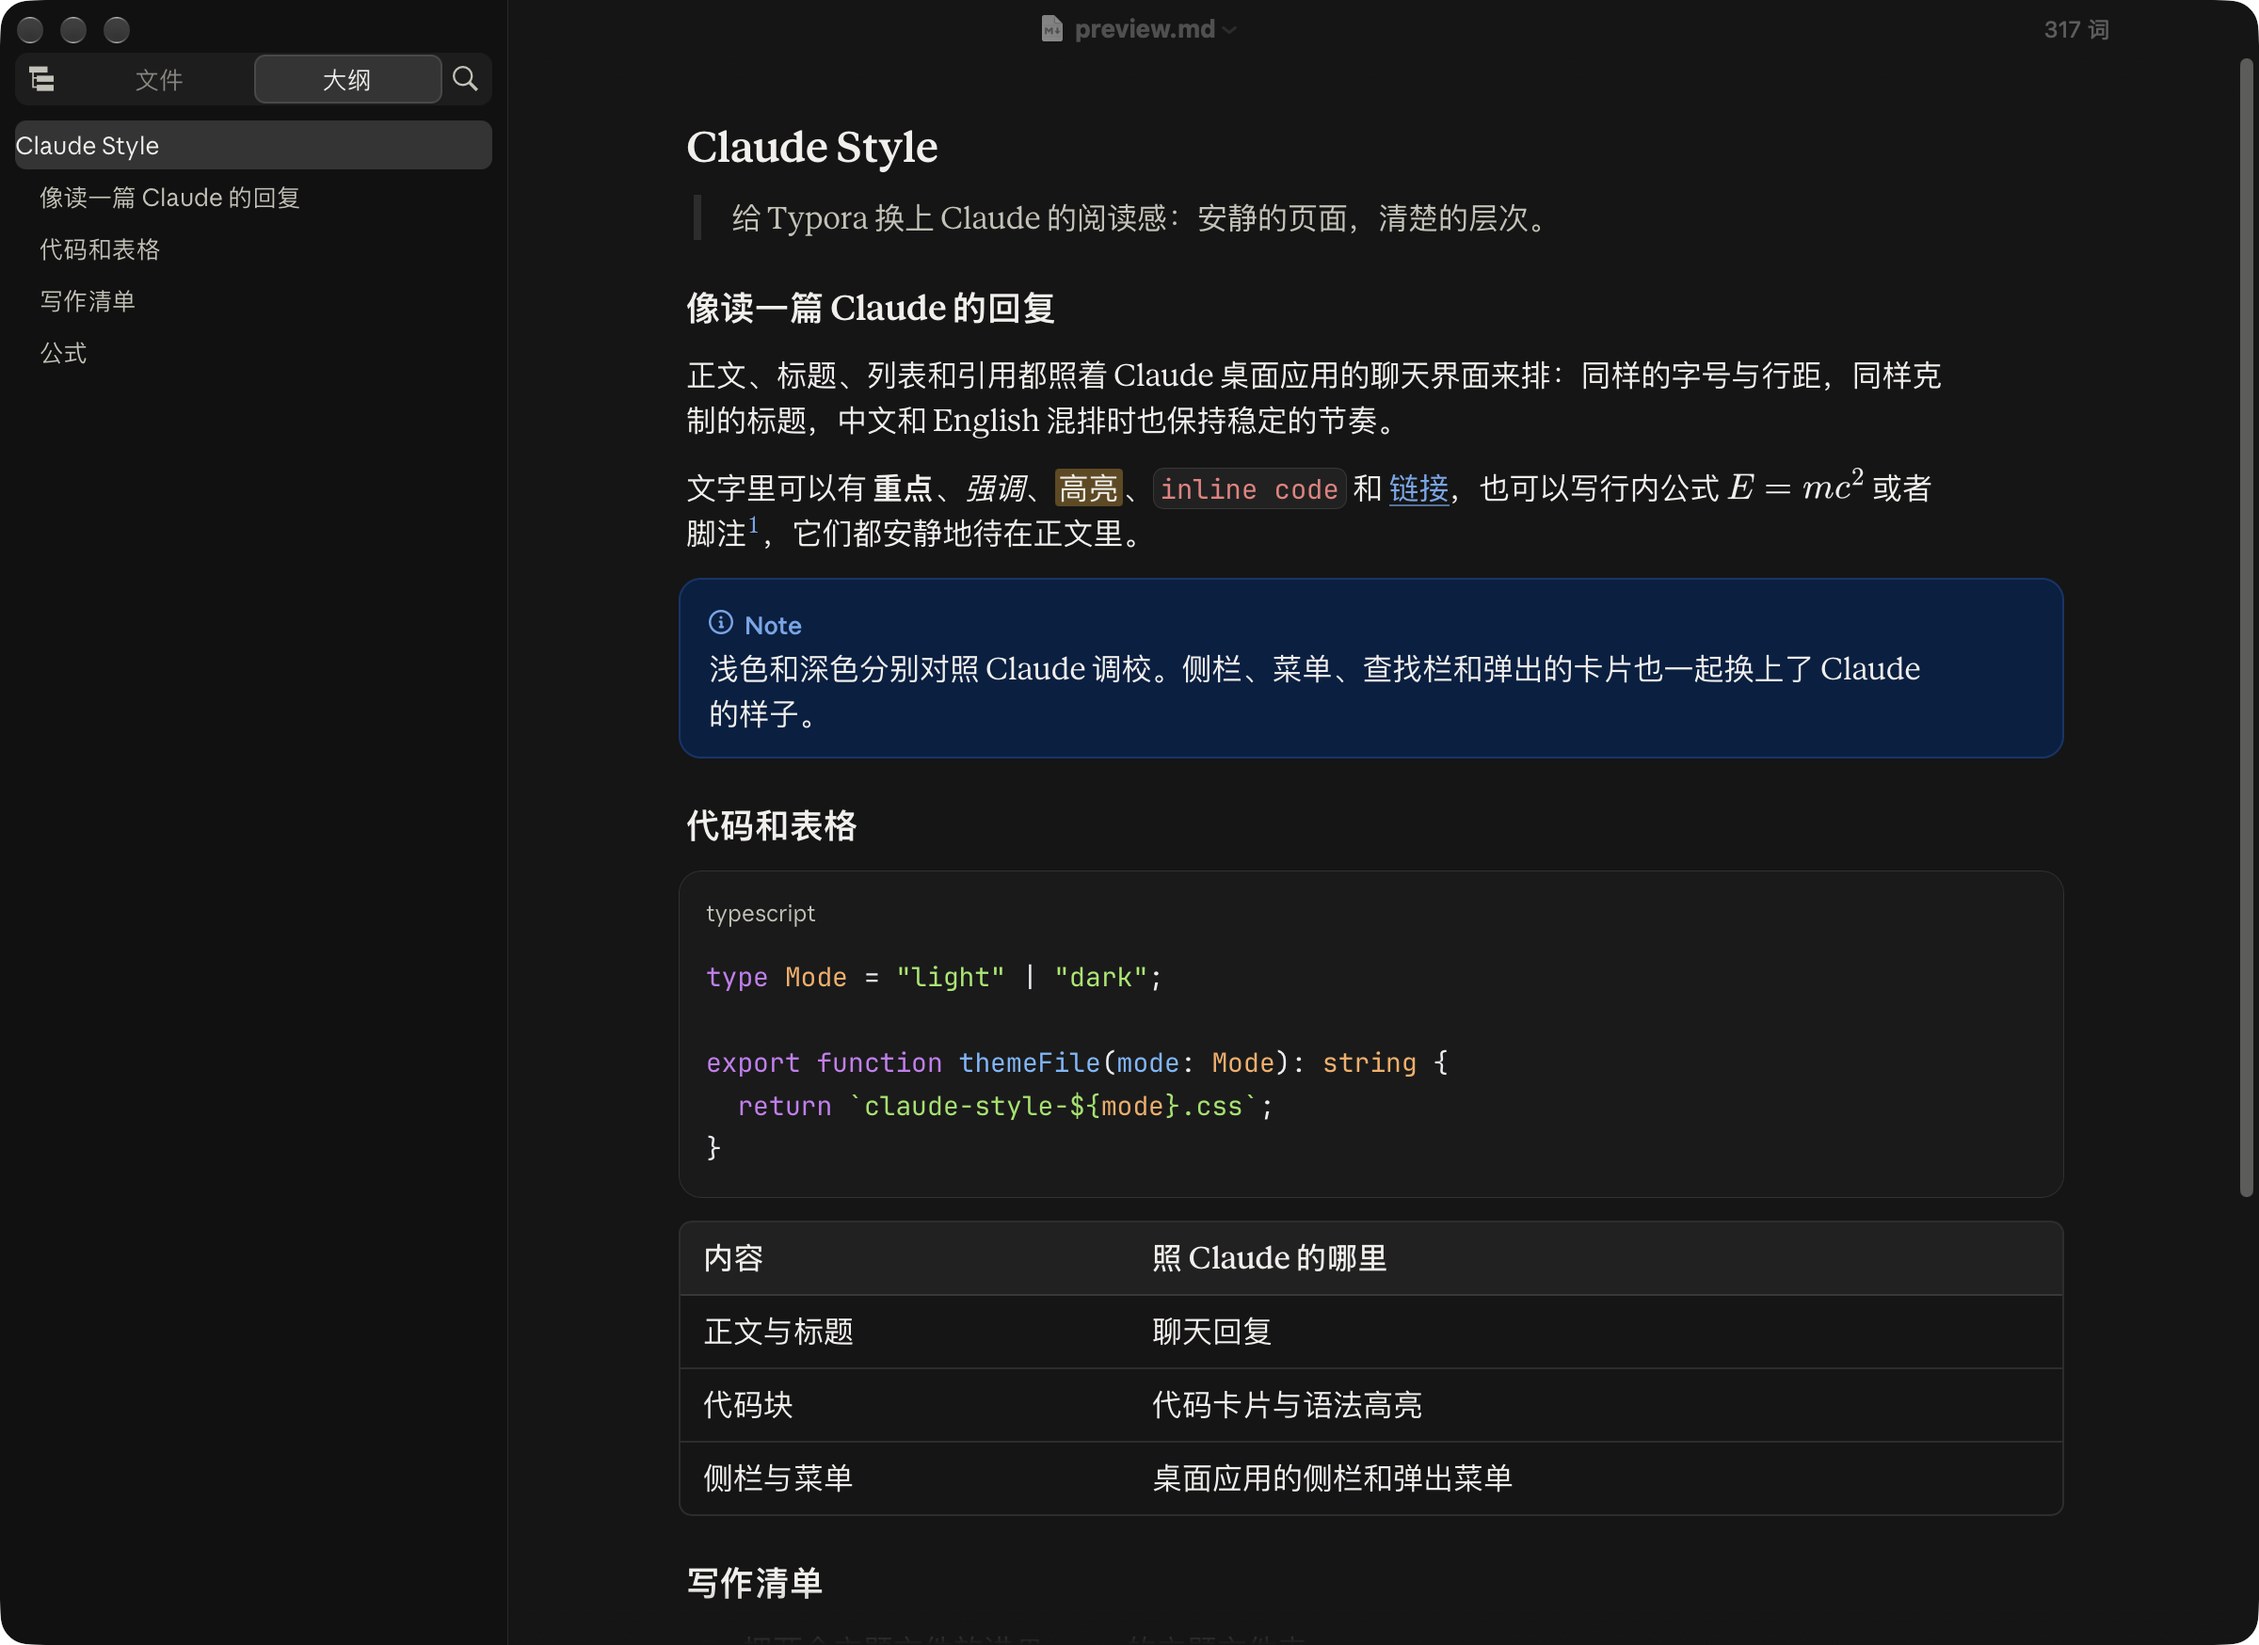
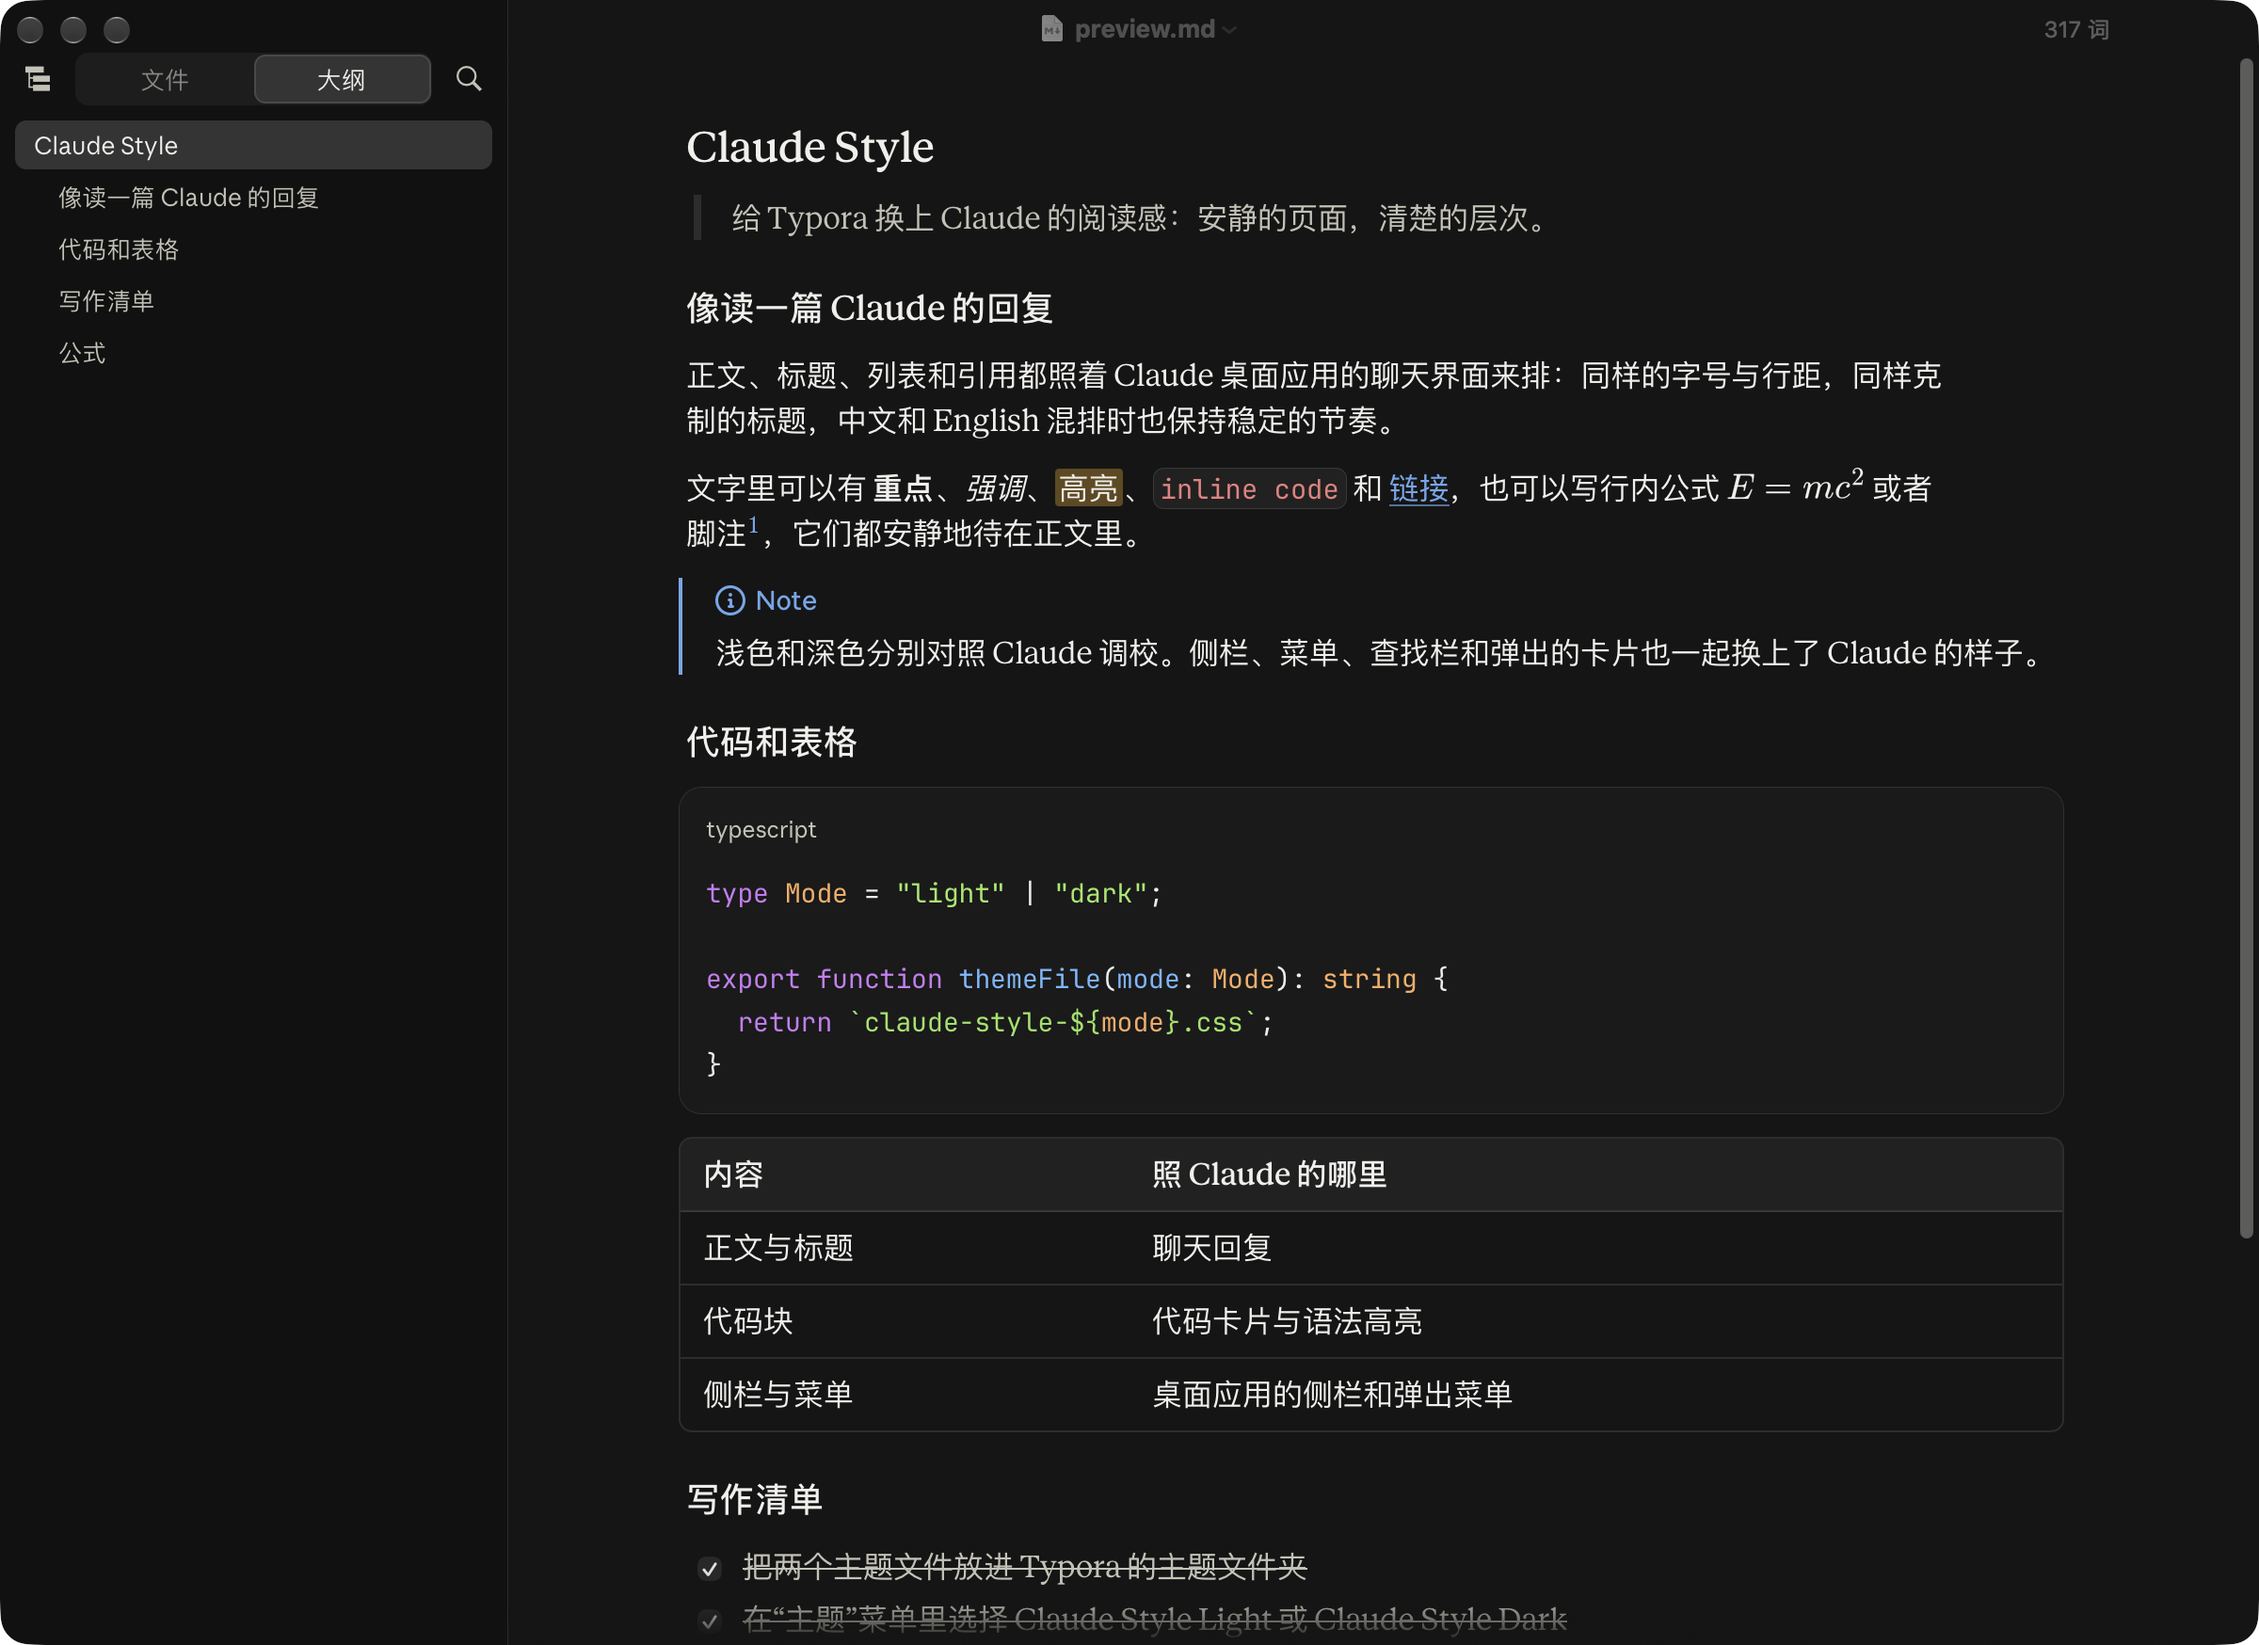
docs: bring Claude Style's post and previews up to date
The theme has moved on since the entry was proposed: new previews with
the current alerts and outline, two previews of the new file cards, a
thumbnail cut from the new light preview, and the post's summary of what
the theme covers.

diff --git a/_posts/theme/2026-10-22-claude-style.md b/_posts/theme/2026-10-22-claude-style.md
@@ -15,7 +15,7 @@ typora-copy-images-to: ../../media/theme/claude-style
 
 # Claude Style
 
-A light and a dark theme that make your documents read like a reply in the Claude desktop app. The text, code, tables and alerts follow Claude's chat view, and Typora's own interface (sidebar, menus, find bar, dialogs) takes on Claude's look as well.
+A light and a dark theme that make your documents read like a reply in the Claude desktop app. The text, code and tables follow Claude's chat view, alerts follow the way Claude shows a document, a file linked on its own becomes the card Claude shows for a file it shares, and Typora's own interface (sidebar, menus, floating toolbar, find bar, dialogs) takes on Claude's look as well.
 
 ## Light
 
@@ -25,12 +25,21 @@ A light and a dark theme that make your documents read like a reply in the Claud
 
 ![](/media/theme/claude-style/preview-dark.png)
 
+## File cards
+
+Files linked in paragraphs of their own, in the light and the dark theme:
+
+![](/media/theme/claude-style/file-cards-light.png)
+
+![](/media/theme/claude-style/file-cards-dark.png)
+
 ## What it covers
 
-- **Reading:** Claude's text size, line spacing and heading scale; quiet links, quotes, lists and tables.
+- **Reading:** Claude's text size, line spacing and heading scale; quiet links, quotes, lists and tables; keycaps, task lists and footnotes as in Claude.
 - **Code:** Claude's code card with a language label and Claude's syntax colours; inline code as Claude's small code chip.
-- **Math, alerts and diagrams:** formulas at the same size as in Claude, GitHub alerts as Claude's notices, Mermaid diagrams in Claude's colours.
-- **Typora itself:** sidebar with file tree, outline and search; menus, find and replace, quick open, dialogs, notifications, the floating toolbar and file preview.
+- **Math, alerts and diagrams:** formulas at the same size as in Claude, GitHub alerts the way Claude shows them in a document, Mermaid diagrams in Claude's colours.
+- **File links:** a file linked in a paragraph of its own shows as the card Claude draws for a file it shares, coloured by the kind of file, with its icon, name, kind and extension; web links stay links, and exports keep the plain link.
+- **Typora itself:** sidebar with file tree, outline and search; the floating toolbar in the look of Claude's review bar, with the heading levels in a submenu of Paragraph; find and replace, quick open with matches in bold as in Claude's search, dialogs, notifications, tooltips, the floating outline window and file preview.
 - **Export:** HTML and PDF use the same styles as the editor.
 
 The theme prefers Anthropic Serif, Anthropic Sans and JetBrains Mono NL when they are installed and falls back to Times New Roman, the system fonts and PingFang SC. No font is bundled or downloaded.
